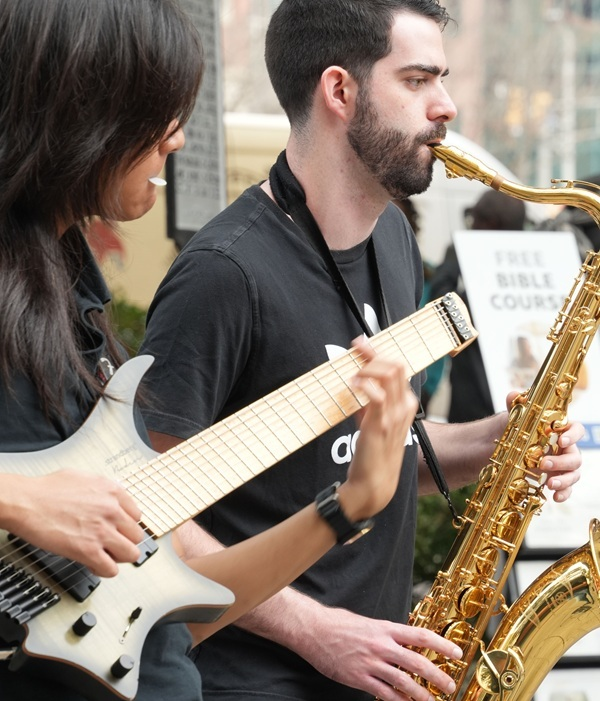
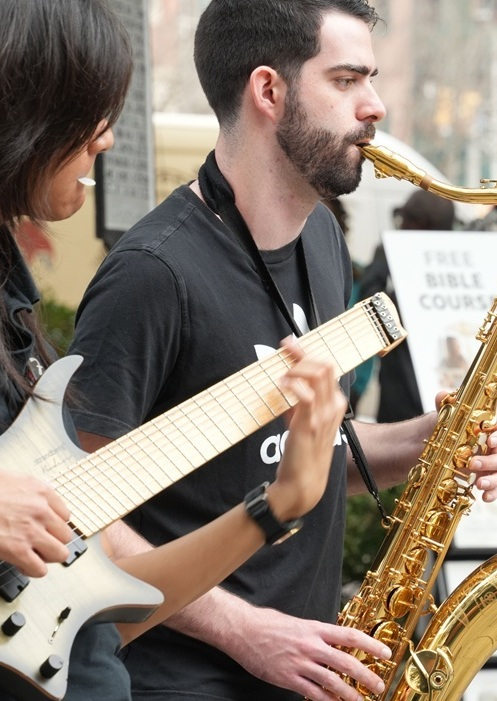
bg fix

diff --git a/index.html b/index.html
@@ -3,7 +3,7 @@
     <head>
     <meta charset="UTF-8">
     <meta http-equiv="X-UA-Compatible" content="IE-edge">
-    <meta name="viewport" content="width=device-width, initial-scale=1.0">
+    <meta name="viewport" content="width=device-width, initial-scale=1.0 , maximum-scale=1, user-scalable=no">
     <title>The OJM Experience</title>
     <link rel="stylesheet" href="style.css">
     <script src="https://kit.fontawesome.com/6a97e06091.js" crossorigin="anonymous"></script>

diff --git a/style.css b/style.css
@@ -336,6 +336,7 @@ nav{
     body{
         background-image: url(images/BandPhoto_small.jpg);
         background-attachment:fixed;
+        background-size: contain;
         
     }
     .header-text {
